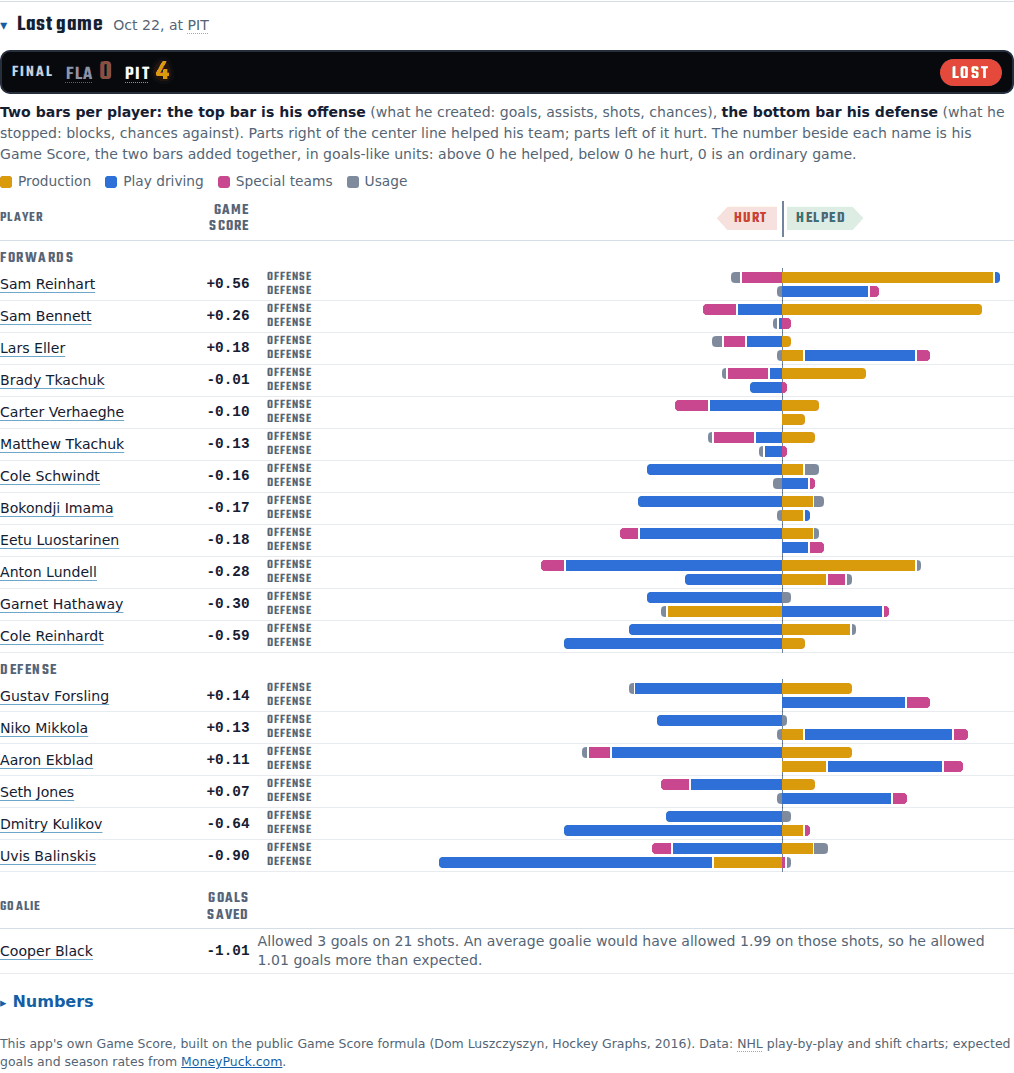
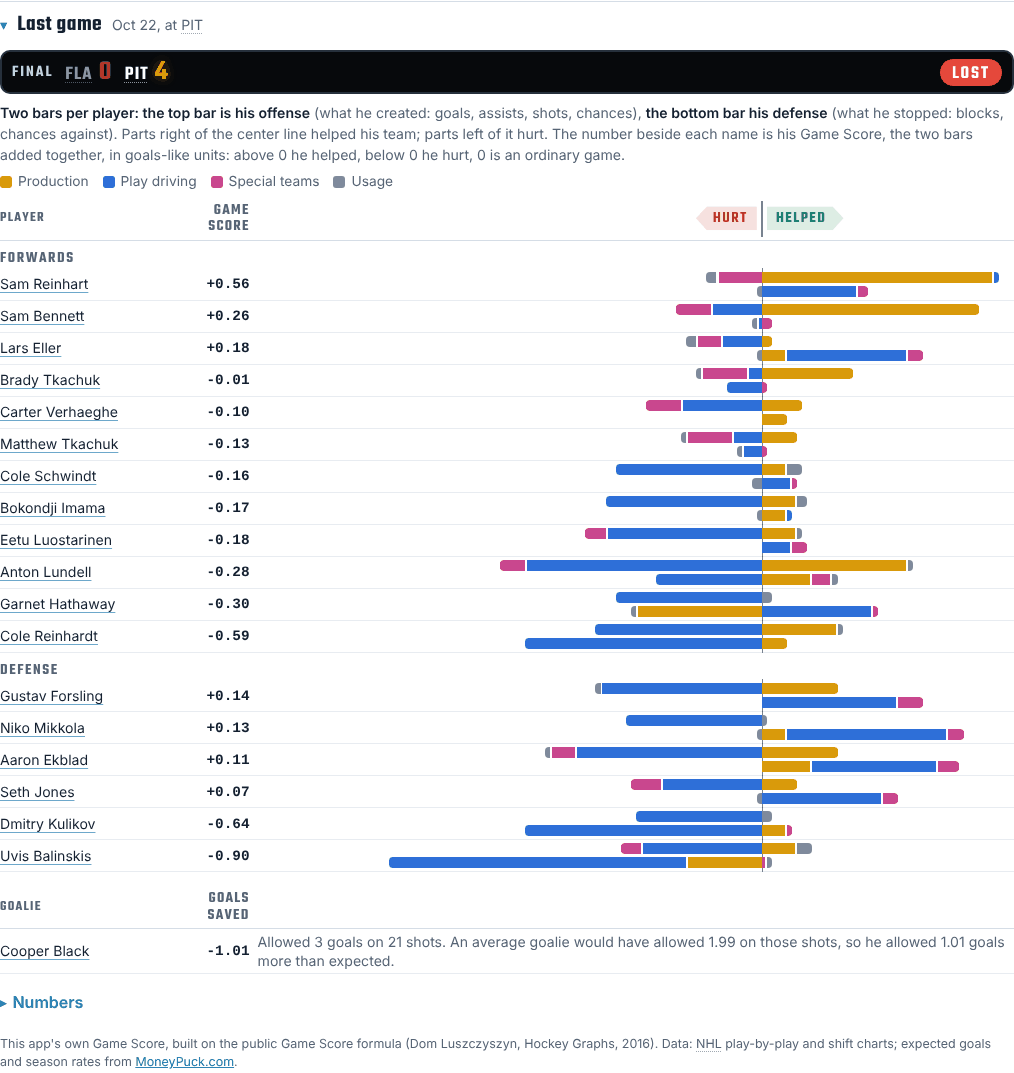
1.13.2: no Offense and Defense labels on the last-game chart rows
John: "The location of the row identifier does not look visually appealing.
remove it as the hover description is sufficiant"
- The OFFENSE and DEFENSE labels added beside each player's bars in 1.12.1
  are gone, with their column; the chart's bars, zero line and Hurt and
  Helped tags take the full width again.
- The text above the chart still opens with what the two bars are, and every
  part of each bar now says on hover or tap which bar it is part of
  ("Offense (top bar), production: +0.80").
- Help updated; README pictures redrawn.
- Test: the browser check requires no row labels and the bar named in every
  part's description; it failed on 1.13.1 and passes now.

Claude-Session: https://claude.ai/code/session_01XqpNinG5Pf12J6dGNoaPvS

diff --git a/app/js/glossary.js b/app/js/glossary.js
@@ -32,7 +32,7 @@ window.NDA_GLOSSARY = [
   ["Install app", "The gold Install app button beside the name puts NHL Daily on your home screen, where it opens full screen from its own icon. On Android, Chrome and Edge it opens the browser's own install box. An iPhone or iPad has no install box, so the button shows the three taps instead: Share, Add to Home Screen, Add (Safari, or Chrome on iOS 16.4 or later). Not now hides the reminder banner for 14 days; the button stays until the app runs from its icon."],
   ["Candidate (Model tab)", "The model settings under test, refit from every settled game at each learning cycle (every 10 games). It replaces the settings in use only after two tests on games it was not fit on: at least 40 such games, and a lead of two standard errors of log loss, one that luck alone would give only about 1 time in 44. The Model tab says which test it has not passed, how far it is from it, and what it would take."],
   ["Team logos", "Each team's official logo loads from the NHL's own image server. If a logo cannot load (offline, or blocked), the team shows its color badge instead: the abbreviation on the club's colors. Settings > Team logos > Badges only turns the logos off."],
-  ["Last game and Game Score (My Teams)", "Each team you follow shows its most recent finished game: the final score, then every player's Game Score, the number beside his name: what he added to the game in goals-like units. Above 0 he helped his team, below 0 he hurt it, and 0 is an ordinary game. Each player has two bars, named on his row: the top bar (Offense) is what he created, the bottom bar (Defense) what he stopped; his Game Score is the two added together. Each bar is split into production, play driving, special teams and usage; parts right of the center line helped, parts left of it hurt. Goalies get a sentence of their own: the goals allowed, the goals an average goalie would have allowed on the same shots, and the difference (goals saved above expected). It is this app's own model, built on the public Game Score formula by Dom Luszczyszyn (Hockey Graphs, 2016), from NHL play-by-play and shift charts with expected goals from MoneyPuck.com. A game appears the morning after it is played, once the expected goals are published. Shots, blocks, time on ice and the goalie's shots and goals against are the NHL boxscore's official numbers; for three days the game is scored again at each update, so the NHL's later corrections show up."],
+  ["Last game and Game Score (My Teams)", "Each team you follow shows its most recent finished game: the final score, then every player's Game Score, the number beside his name: what he added to the game in goals-like units. Above 0 he helped his team, below 0 he hurt it, and 0 is an ordinary game. Each player has two bars: the top bar (offense) is what he created, the bottom bar (defense) what he stopped, and hovering over or tapping any part names its bar; his Game Score is the two added together. Each bar is split into production, play driving, special teams and usage; parts right of the center line helped, parts left of it hurt. Goalies get a sentence of their own: the goals allowed, the goals an average goalie would have allowed on the same shots, and the difference (goals saved above expected). It is this app's own model, built on the public Game Score formula by Dom Luszczyszyn (Hockey Graphs, 2016), from NHL play-by-play and shift charts with expected goals from MoneyPuck.com. A game appears the morning after it is played, once the expected goals are published. Shots, blocks, time on ice and the goalie's shots and goals against are the NHL boxscore's official numbers; for three days the game is scored again at each update, so the NHL's later corrections show up."],
   ["Final score and Win or Loss", "When a game is over by the time of an update, its card shows the final score on a scoreboard strip under the pick banner, with WIN or LOSS for the pick. The pick is the one made before puck drop; a later update never changes it. Games that end after the 4:45 PM update show in Results the next morning."],
   ["My pick", "The team the model picks to win the game: the side with the higher win probability. Every game card shows it on a gold banner with a star, as hockey names the first of its three stars after a game."],
   ["Injury list (Injuries tab)", "Every injured player the injury reports name, by team: GTD game-time decision, DTD day to day, OUT out, IR injured reserve, LTIR long-term injured reserve, IR-NR injured non-roster, SUSP suspended. Mostly ESPN's public injury report; Daily Faceoff's injured lists fill in for today's teams. Estimated return dates are estimates and often move."],

diff --git a/app/css/style.css b/app/css/style.css
@@ -206,8 +206,7 @@ table.standings tr.cut td { border-top: 3px solid var(--redline); }
 .gs-val { font: 600 .9rem/1 var(--mono); text-align: right; font-variant-numeric: tabular-nums; }
 .gs-head { padding: 4px 0 5px; border-bottom: 1px solid var(--line); font: 600 .98rem/1.05 var(--display); letter-spacing: .08em; text-transform: uppercase; color: var(--muted); }
 .gs-head > .gs-val { font: inherit; cursor: help; }
-.gs-chart { --gs-lab: 3.4rem; }
-.gs-sides { position: relative; height: 26px; margin-left: calc(var(--gs-lab) + 6px); }
+.gs-sides { position: relative; height: 26px; }
 /* two arrow tags on either side of the zero line, each pointing away from it: red
    "Hurt" to the left, green "Helped" to the right (kept inside the chart when the
    line sits near an edge) */
@@ -220,12 +219,9 @@ table.standings tr.cut td { border-top: 3px solid var(--redline); }
 .gs-sides > .helped::before { background: color-mix(in srgb, var(--ok) 15%, transparent); clip-path: polygon(0 0, calc(100% - 11px) 0, 100% 50%, calc(100% - 11px) 100%, 0 100%); }
 .gs-sides::before { content: ""; position: absolute; top: -4px; bottom: -6px; left: var(--z); width: 2px; margin-left: -.5px; background: var(--muted); opacity: .8; }
 .gs-grp { font: 600 .98rem/1 var(--display); letter-spacing: .1em; text-transform: uppercase; color: var(--muted); margin: 10px 0 2px; }
-/* each row: the names of its two bars (1.12.1), then the plot with the zero line */
-.gs-bars { display: flex; gap: 6px; align-items: stretch; }
-.gs-od { flex: none; width: var(--gs-lab); position: relative; height: 25px; font: 600 .8rem/11px var(--display); letter-spacing: .08em;
-  text-transform: uppercase; color: var(--muted); text-align: right; white-space: nowrap; }
-.gs-od > span { position: absolute; right: 0; }
-.gs-od > .o { top: 0; } .gs-od > .d { top: 14px; }
+/* each row: the plot with the zero line; the bars are named in the text above the chart
+   and on hover (1.13.2: the row labels of 1.12.1 removed at John's request) */
+.gs-bars { display: flex; align-items: stretch; }
 .gs-plot { position: relative; flex: 1; min-width: 0; height: 25px; }
 .gs-plot::before { content: ""; position: absolute; top: -4px; bottom: -4px; left: var(--z); width: 1px; background: var(--muted); opacity: .8; }
 .gs-trk { position: absolute; left: 0; right: 0; height: 11px; }
@@ -386,7 +382,6 @@ dialog.sheet::backdrop { background: rgba(5, 14, 26, .58); }
 .other-dev { margin-top: 14px; border-top: 1px solid var(--line); padding-top: 8px; }
 .other-dev summary { cursor: pointer; font-weight: 600; }
 @media (max-width: 360px) { .getapp-x { display: none; }
-  .gs-chart { --gs-lab: 3.1rem; }
   .gs-sides > span { font-size: .8rem; letter-spacing: .06em; padding: 4px 5px 2px; }
   .gs-sides > .hurt { padding-left: 13px; right: min(calc(100% - var(--z) + 5px), calc(100% - 3.6em)); }
   .gs-sides > .helped { padding-right: 13px; left: min(calc(var(--z) + 5px), calc(100% - 4.5em)); } }

diff --git a/app/js/app.js b/app/js/app.js
@@ -4,7 +4,7 @@
    stats window) stay in this browser (localStorage). */
 (function () {
   "use strict";
-  const APP_VERSION = "1.13.1";
+  const APP_VERSION = "1.13.2";
   const REPO = "https://github.com/JBrady0850/nhl-daily-analytics";
   const PUBLIC_URL = "https://jbrady0850.github.io/nhl-daily-analytics/";
   const KEY = "nda:v1";
@@ -618,7 +618,7 @@
       const left = s.v > 0 ? (0 - lo + pos) / span * 100 : (0 - lo - neg - Math.abs(s.v)) / span * 100;
       if (s.v > 0) pos += s.v; else neg += -s.v;
       const end = s === (s.v > 0 ? ends.p : ends.n) ? (s.v > 0 ? " endp" : " endn") : "";
-      out += `<i class="gs-seg gs-${GS_PARTS[s.i][0]}${s.v < 0 ? " neg" : ""}${end}" style="left:${left.toFixed(2)}%;width:${w.toFixed(2)}%" data-tip="${esc(GS_PARTS[s.i][1])}, ${side}: ${signed(s.v)}"></i>`;
+      out += `<i class="gs-seg gs-${GS_PARTS[s.i][0]}${s.v < 0 ? " neg" : ""}${end}" style="left:${left.toFixed(2)}%;width:${w.toFixed(2)}%" data-tip="${side === "offense" ? "Offense (top bar)" : "Defense (bottom bar)"}, ${esc(GS_PARTS[s.i][1].toLowerCase())}: ${signed(s.v)}"></i>`;
     });
     return out;
   }
@@ -626,7 +626,6 @@
     const say = (lab, v) => `${lab} ${GS_PARTS.map(([, n], i) => `${n.toLowerCase()} ${signed(v[i])}`).join(", ")}`;
     return `<div class="gs-row"><span class="gs-name">${pname(p.name, p.id)}</span><b class="gs-val" data-tip="Game Score ${signed(p.gs)}: offense ${signed(p.o.reduce((a, b) => a + b, 0))} plus defense ${signed(p.d.reduce((a, b) => a + b, 0))}. Above 0 he helped his team; below 0 he hurt it.">${signed(p.gs)}</b>
       <div class="gs-bars" role="img" aria-label="${esc(p.name)}: ${signed(p.gs)}. ${esc(say("Offense", p.o))}. ${esc(say("Defense", p.d))}.">
-      <span class="gs-od" aria-hidden="true"><span class="o">Offense</span><span class="d">Defense</span></span>
       <div class="gs-plot" style="--z:${((0 - lo) / span * 100).toFixed(2)}%"><span class="gs-trk o">${gsTrack(p.o, "offense", lo, span)}</span><span class="gs-trk d">${gsTrack(p.d, "defense", lo, span)}</span></div></div></div>`;
   }
   // the goalie is measured in goals saved, not Game Score, so he gets a plain sentence

diff --git a/app/sw.js b/app/sw.js
@@ -1,7 +1,7 @@
 /* Offline support for the app shell. Files come from the network first, so a
    connected device always gets the newest version and the newest data; the cached
    copy is used only when offline. Bump VERSION when the file list changes. */
-const VERSION = "nda-v1.13.1";
+const VERSION = "nda-v1.13.2";
 const FILES = ["./", "index.html", "css/style.css", "js/glossary.js", "js/app.js", "data/latest.js",
   "manifest.webmanifest", "icon.svg", "icon-180.png", "icon-192.png", "icon-512.png", "icon-maskable-512.png", "qr-app.png"];
 self.addEventListener("install", e => e.waitUntil(caches.open(VERSION).then(c => c.addAll(FILES)).then(() => self.skipWaiting())));

diff --git a/tests/ui_smoke.py b/tests/ui_smoke.py
@@ -307,14 +307,12 @@ LAST_GAME_JS = """(ab) => {
     goalieBars: lg.querySelectorAll('.gs-goalies .gs-bars, .gs-chart .gs-row.gk').length,
     goalieText: [...lg.querySelectorAll('.gs-goalies .gs-gk-txt')].map(x => x.textContent.trim()),
     labels: [...lg.querySelectorAll('.gs-bars')].every(b => (b.getAttribute('aria-label') || '').length > 10),
-    // every player's two bars are named on the row: Offense beside the top bar, Defense
-    // beside the bottom one, left of the chart (John, 2026-10-27: "two bars are not explained")
-    odLabels: (() => { const rs = [...lg.querySelectorAll('.gs-chart .gs-row')]; if (!rs.length) return false;
-      const mid = x => (x.top + x.bottom) / 2;
-      return rs.every(r => { const l = [...r.querySelectorAll('.gs-od > span')], o = r.querySelector('.gs-trk.o'), d = r.querySelector('.gs-trk.d');
-        if (l.length !== 2 || !o || !d || l[0].textContent.trim() !== 'Offense' || l[1].textContent.trim() !== 'Defense') return false;
-        const a = l[0].getBoundingClientRect(), b = l[1].getBoundingClientRect(), to = o.getBoundingClientRect(), td = d.getBoundingClientRect();
-        return a.width > 0 && Math.abs(mid(a) - mid(to)) <= 3 && Math.abs(mid(b) - mid(td)) <= 3 && a.right <= to.left + 1 && b.right <= td.left + 1; }); })(),
+    // no Offense or Defense label on the rows (John, 2026-10-30: the hover description is
+    // enough); every part of each bar says on hover which bar it is part of
+    odLabels: lg.querySelectorAll('.gs-od').length === 0
+      && [...lg.querySelectorAll('.gs-chart .gs-row')].every(r =>
+        [...r.querySelectorAll('.gs-trk.o .gs-seg')].every(x => /^Offense \\(top bar\\), /.test(x.dataset.tip || ''))
+        && [...r.querySelectorAll('.gs-trk.d .gs-seg')].every(x => /^Defense \\(bottom bar\\), /.test(x.dataset.tip || ''))),
     // the zero line of every row sits under the header's zero line
     zeroAligned: (() => { const s = lg.querySelector('.gs-head .gs-sides'); if (!s) return false;
       const r = s.getBoundingClientRect(), zx = r.left + r.width * parseFloat(s.style.getPropertyValue('--z')) / 100;
